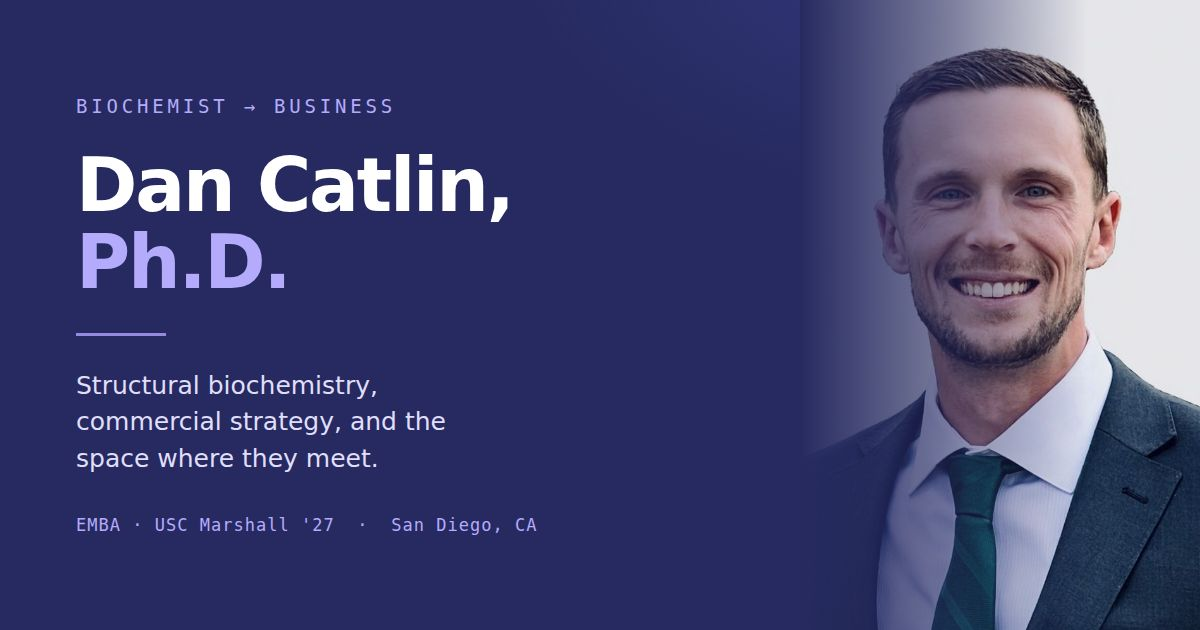
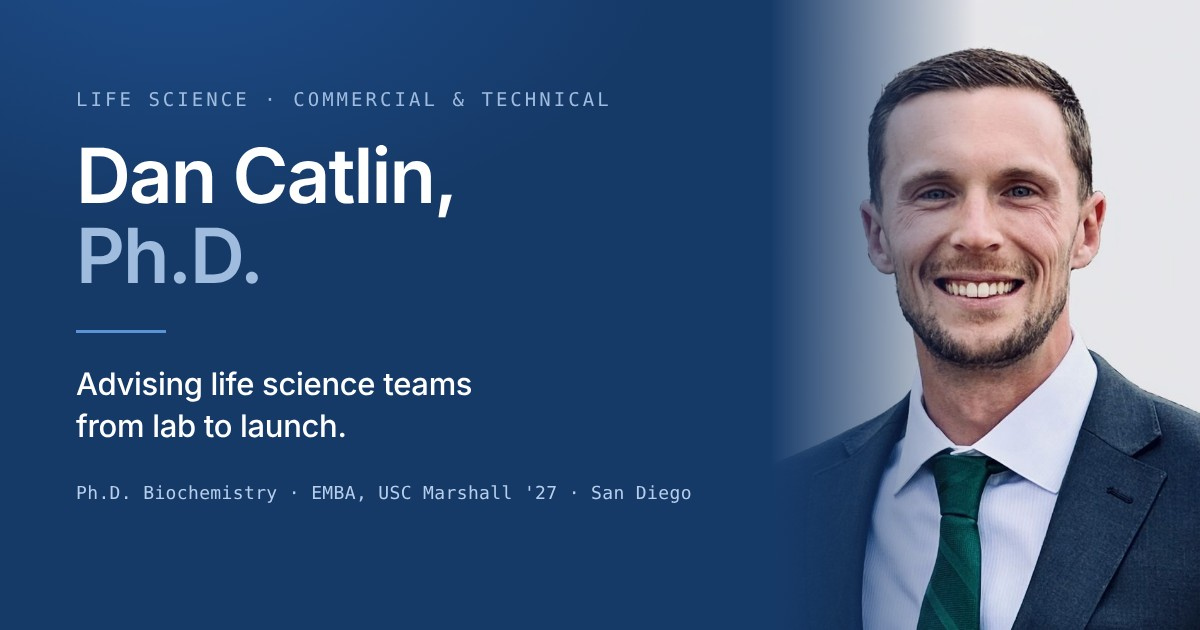
Iridia dates to present; regenerate navy link-preview card
Claude-Session: https://claude.ai/code/session_01SxVmdnHseBJSF13TyFkTcx

diff --git a/index.html b/index.html
@@ -308,7 +308,7 @@
             <p class="record-role">Head of Commercial</p>
             <p class="record-org">Iridia · DNA-based supply chain authentication</p>
           </div>
-          <p class="record-dates">2025 &ndash; 2027</p>
+          <p class="record-dates">2025 &ndash; present</p>
         </div>
       </div>
     </div>
